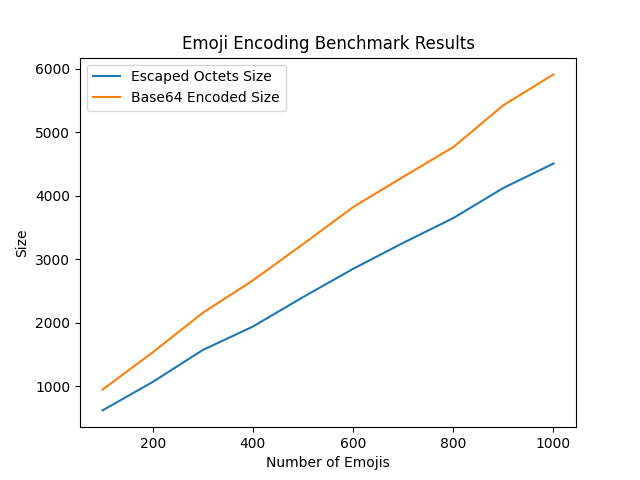
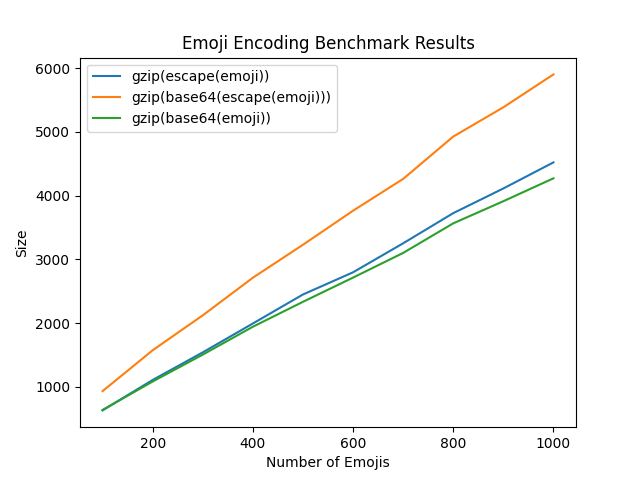
Benchmark: `gzip(escape(emoji))` vs. `gzip(base64(emoji))` vs. `gzip(base64(escape(emoji)))`

diff --git a/bench.py b/bench.py
@@ -14,8 +14,11 @@ from emoji.unicode_codes.data_dict import EMOJI_DATA
 import re
 import os
 
+import matplotlib.pyplot as plt
+
+
 # Set DEBUG=1 to print emoji, escaped octets, and base64 encoded escaped octets
-DEBUG = os.getenv("DEBUG") == 1
+DEBUG = os.getenv("DEBUG") == "1"
 
 # The keys of EMOJI_DATA are already utf-8 encoded e.g. u'\U0001F947'
 EMOJIS = list(EMOJI_DATA.keys())
@@ -37,25 +40,27 @@ def encode_and_compress_emoji(num_emojis, emojis):
     if DEBUG:
         print("".join([emoji for emoji in emojis]))
 
-    # Join the emojis together into a string
-    escaped_octets = "".join([encode_emoji(emoji) for emoji in emojis])
-
+    # gzip(escape(emoji))
+    escaped_emoji = "".join([encode_emoji(emoji) for emoji in emojis])
     if DEBUG:
-        print(escaped_octets)
+        print(escaped_emoji)
+    gzipped_escaped_emoji = gzip.compress(escaped_emoji.encode("utf-8"))
 
-    # Encode the emojis using Base64
-    # base64_encoded = base64.b64encode(escaped_octets).decode("utf-8")
-    base64_encoded = base64.b64encode(escaped_octets.encode("utf-8"))
-
+    # gzip(base64(escape(emoji)))
+    base64_escaped_emoji = base64.b64encode(escaped_emoji.encode("utf-8"))
     if DEBUG:
-        print(base64_encoded)
+        print(base64_escaped_emoji)
+    gzipped_base64_escaped_emoji = gzip.compress(base64_escaped_emoji)
 
-    # Compress both encoded strings using gzip
-    escaped_octets_compressed = gzip.compress(escaped_octets.encode("utf-8"))
-    base64_compressed = gzip.compress(base64_encoded)
+    # gzip(base64(emoji))
+    base64_emoji = base64.b64encode("".join(emojis).encode("utf-8"))
+    gzipped_base64_emoji = gzip.compress(base64_emoji)
 
-    # Return the sizes of the compressed data
-    return len(escaped_octets_compressed), len(base64_compressed)
+    return (
+        len(gzipped_escaped_emoji),
+        len(gzipped_base64_escaped_emoji),
+        len(gzipped_base64_emoji),
+    )
 
 
 # Define the range of numbers of emojis to test
@@ -66,38 +71,64 @@ with open("emoji_encoding_benchmark.csv", "w", newline="") as csvfile:
     writer = csv.writer(csvfile)
 
     # Write the header row to the CSV file
-    writer.writerow(["Num Emojis", "Escaped Octets Size", "Base64 Encoded Size"])
+    writer.writerow(
+        [
+            "Num Emojis",
+            "gzip(escape(emoji))",
+            "gzip(base64(escape(emoji)))",
+            "gzip(base64(emoji))",
+        ]
+    )
 
     # Iterate through the range of numbers of emojis
     for num_emojis in num_emojis_range:
         # Call the encode_and_compress_emoji function
-        escaped_octets_size, base64_encoded_size = encode_and_compress_emoji(
-            num_emojis, EMOJIS
-        )
+        (
+            gzipped_escaped_emoji_size,
+            gzipped_base64_escaped_emoji_size,
+            gzipped_base64_emoji_size,
+        ) = encode_and_compress_emoji(num_emojis, EMOJIS)
 
         # Write the results to the CSV file
-        writer.writerow([num_emojis, escaped_octets_size, base64_encoded_size])
+        writer.writerow(
+            [
+                num_emojis,
+                gzipped_escaped_emoji_size,
+                gzipped_base64_escaped_emoji_size,
+                gzipped_base64_emoji_size,
+            ]
+        )
 
         # Write the results to stdout as well
         sys.stdout.write(
-            f"Num Emojis: {num_emojis}, Escaped Octets Size: {escaped_octets_size}, Base64 Encoded Size: {base64_encoded_size}\n"
+            f"Num Emojis: {num_emojis}, gzip(escape(emoji)): {gzipped_escaped_emoji_size}, gzip(base64(escape(emoji))): {gzipped_base64_escaped_emoji_size}, gzip(base64(emoji)): {gzipped_base64_emoji_size}\n"
         )
-
-import matplotlib.pyplot as plt
-import csv
 
 # Read the CSV file
 with open("emoji_encoding_benchmark.csv", "r") as csvfile:
     reader = csv.DictReader(csvfile)
-    data = {"num_emojis": [], "escaped_octets_size": [], "base64_encoded_size": []}
+    data = {
+        "num_emojis": [],
+        "gzip(escape(emoji))": [],
+        "gzip(base64(escape(emoji)))": [],
+        "gzip(base64(emoji))": [],
+    }
     for row in reader:
         data["num_emojis"].append(int(row["Num Emojis"]))
-        data["escaped_octets_size"].append(int(row["Escaped Octets Size"]))
-        data["base64_encoded_size"].append(int(row["Base64 Encoded Size"]))
+        data["gzip(escape(emoji))"].append(int(row["gzip(escape(emoji))"]))
+        data["gzip(base64(escape(emoji)))"].append(
+            int(row["gzip(base64(escape(emoji)))"])
+        )
+        data["gzip(base64(emoji))"].append(int(row["gzip(base64(emoji))"]))
 
 # Create a plot
-plt.plot(data["num_emojis"], data["escaped_octets_size"], label="Escaped Octets Size")
-plt.plot(data["num_emojis"], data["base64_encoded_size"], label="Base64 Encoded Size")
+plt.plot(data["num_emojis"], data["gzip(escape(emoji))"], label="gzip(escape(emoji))")
+plt.plot(
+    data["num_emojis"],
+    data["gzip(base64(escape(emoji)))"],
+    label="gzip(base64(escape(emoji)))",
+)
+plt.plot(data["num_emojis"], data["gzip(base64(emoji))"], label="gzip(base64(emoji))")
 plt.xlabel("Number of Emojis")
 plt.ylabel("Size")
 plt.title("Emoji Encoding Benchmark Results")
